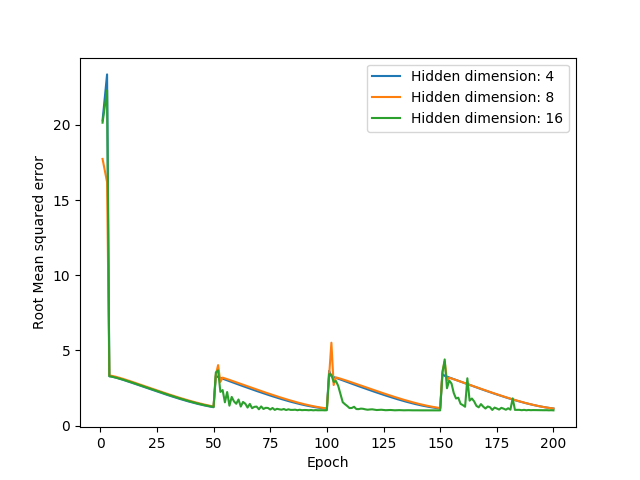
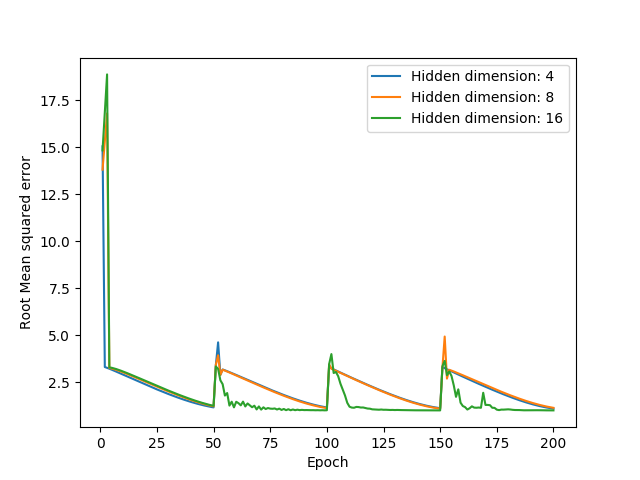
Added plots

diff --git a/stackedAutoencoders.py b/stackedAutoencoders.py
@@ -335,8 +335,8 @@ def experiment_learning_rate():
     for learning_rate in learning_rates:
         print("Trying learning rate: " + str(learning_rate))
         train_metrics, dev_metrics = train(HIDDEN_DIM, ACTIVATION, NUM_STACKS, learning_rate, WEIGHT_DECAY, "RMSE", NUM_ITERATIONS, OPTIMIZER, calculate_precision = True, save_model = False)
-        plot_data_train.append(train_metrics[0][10:])
-        plot_data_dev.append(dev_metrics[0][10:])
+        plot_data_train.append(train_metrics[0])
+        plot_data_dev.append(dev_metrics[0])
         label = "Learning rate: " + str(learning_rate)
         labels.append(label)
         write_precision_recall(label, train_metrics, dev_metrics)
@@ -375,8 +375,8 @@ def experiment_num_stack():
     for num_stack in num_stacks:
         print("Trying number of stacks: " + str(num_stack))
         train_metrics, dev_metrics = train(HIDDEN_DIM, ACTIVATION, num_stack, LEARNING_RATE, WEIGHT_DECAY, "RMSE", NUM_ITERATIONS, OPTIMIZER, calculate_precision = True, save_model = False)
-        plot_data_train.append(train_metrics[0][10:])
-        plot_data_dev.append(dev_metrics[0][10:])
+        plot_data_train.append(train_metrics[0])
+        plot_data_dev.append(dev_metrics[0])
         label = "Number of stacks: " + str(num_stack)
         labels.append(label)
         write_precision_recall(label, train_metrics, dev_metrics)
@@ -395,8 +395,8 @@ def experiment_optimizer():
     for optimizer in optimizers:
         print("Trying optimizer: " + str(optimizer))
         train_metrics, dev_metrics = train(HIDDEN_DIM, ACTIVATION, NUM_STACKS, LEARNING_RATE, WEIGHT_DECAY, "RMSE", NUM_ITERATIONS, optimizer, calculate_precision = True, save_model = False)
-        plot_data_train.append(train_metrics[0][10:])
-        plot_data_dev.append(dev_metrics[0][10:])
+        plot_data_train.append(train_metrics[0])
+        plot_data_dev.append(dev_metrics[0])
         label = "Optimizer: " + str(optimizer)
         labels.append(label)
         write_precision_recall(label, train_metrics, dev_metrics)
@@ -414,8 +414,8 @@ def experiment_activation():
     for activation in activations:
         print("Trying activation: " + str(activation))
         train_metrics, dev_metrics = train(HIDDEN_DIM, activation, NUM_STACKS, LEARNING_RATE, WEIGHT_DECAY, "RMSE", NUM_ITERATIONS, OPTIMIZER, calculate_precision = True, save_model = False)
-        plot_data_train.append(train_metrics[0][10:])
-        plot_data_dev.append(dev_metrics[0][10:])
+        plot_data_train.append(train_metrics[0])
+        plot_data_dev.append(dev_metrics[0])
         label = "Activation: " + str(activation)
         labels.append(label)
         write_precision_recall(label, train_metrics, dev_metrics)
@@ -426,7 +426,7 @@ def experiment_activation():
 def run_experiments():
     if os.path.exists("images/PrecisionRecall.txt"):
         os.remove("images/PrecisionRecall.txt")
-    # experiment_learning_rate()
+    experiment_learning_rate()
     experiment_hidden_dim()
     experiment_num_stack()
     experiment_optimizer()
